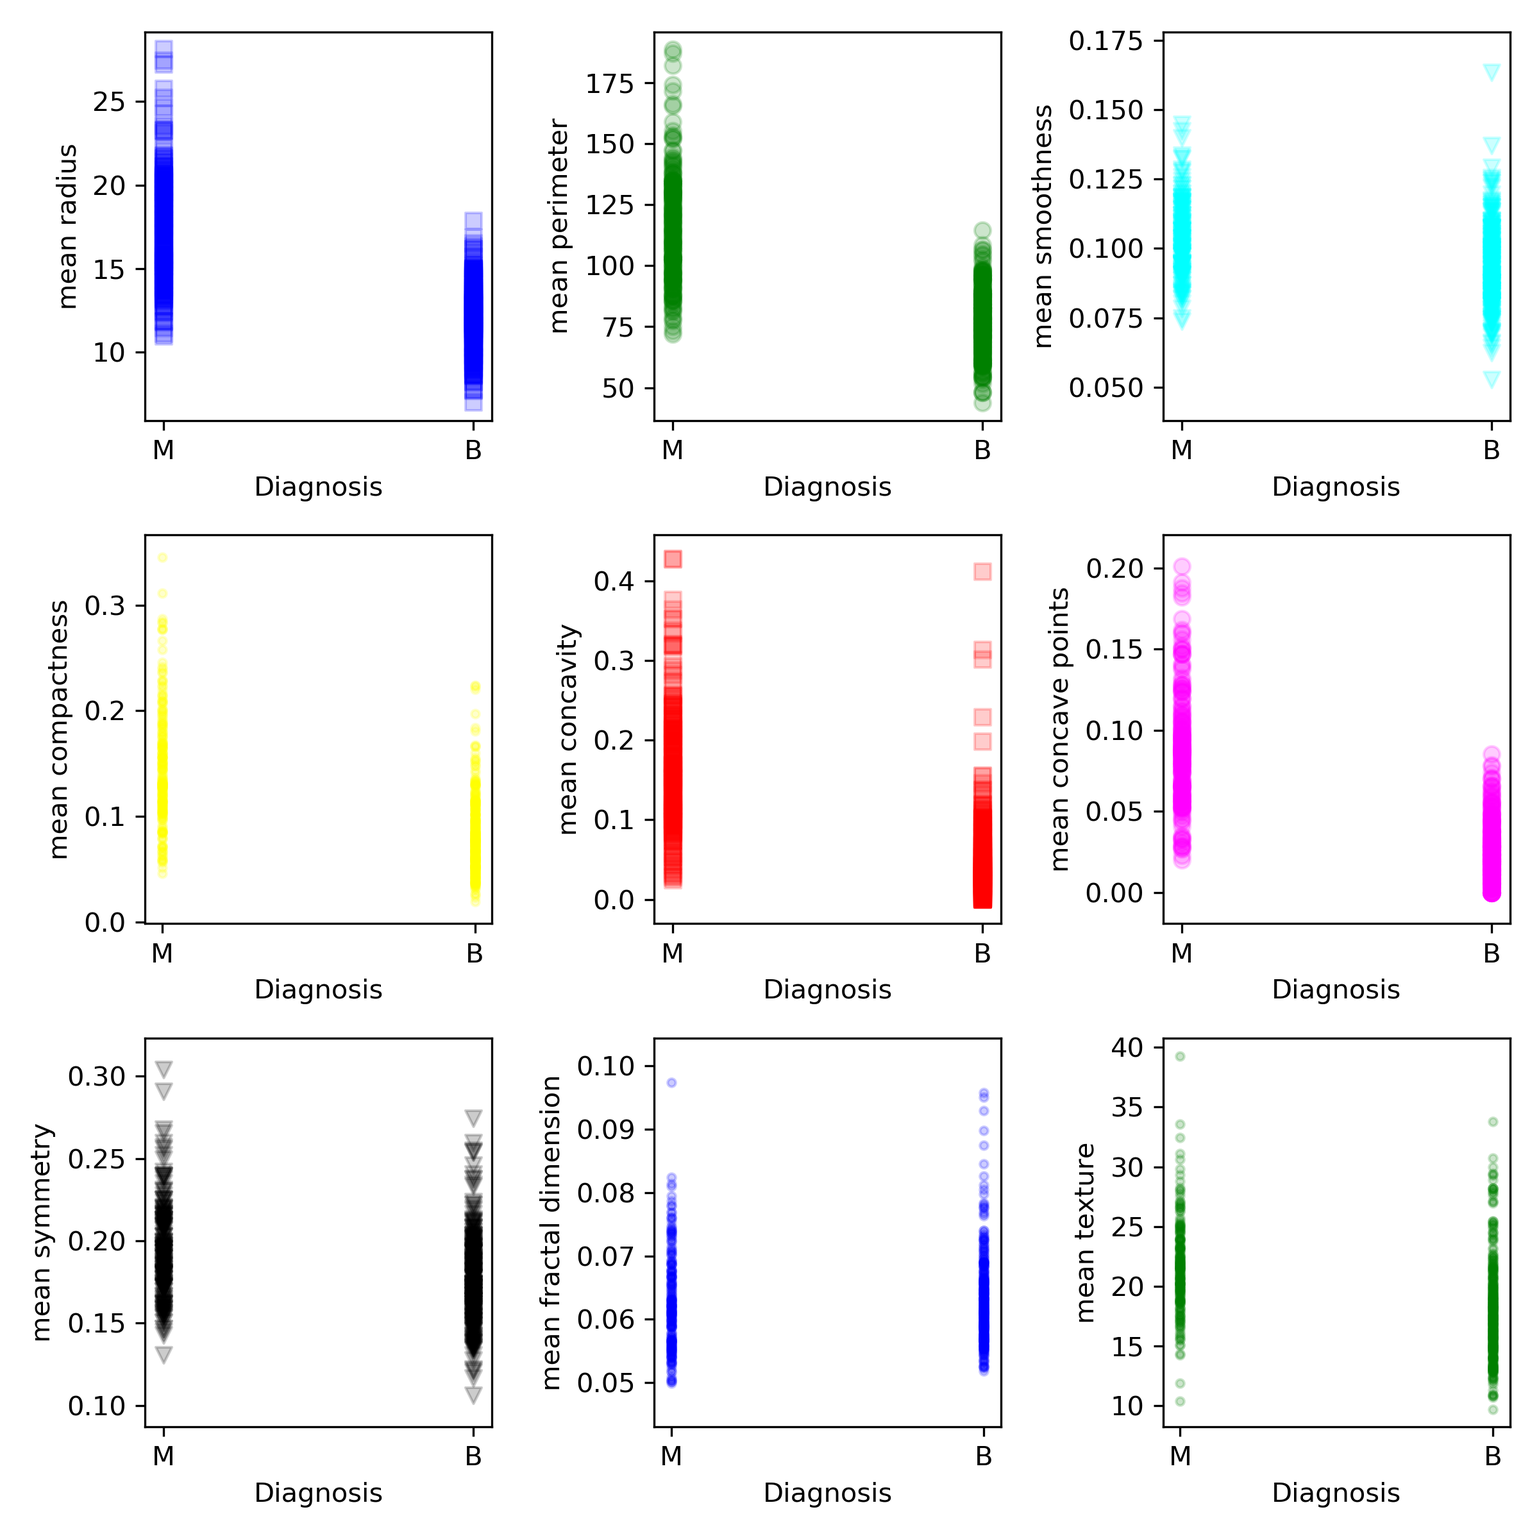
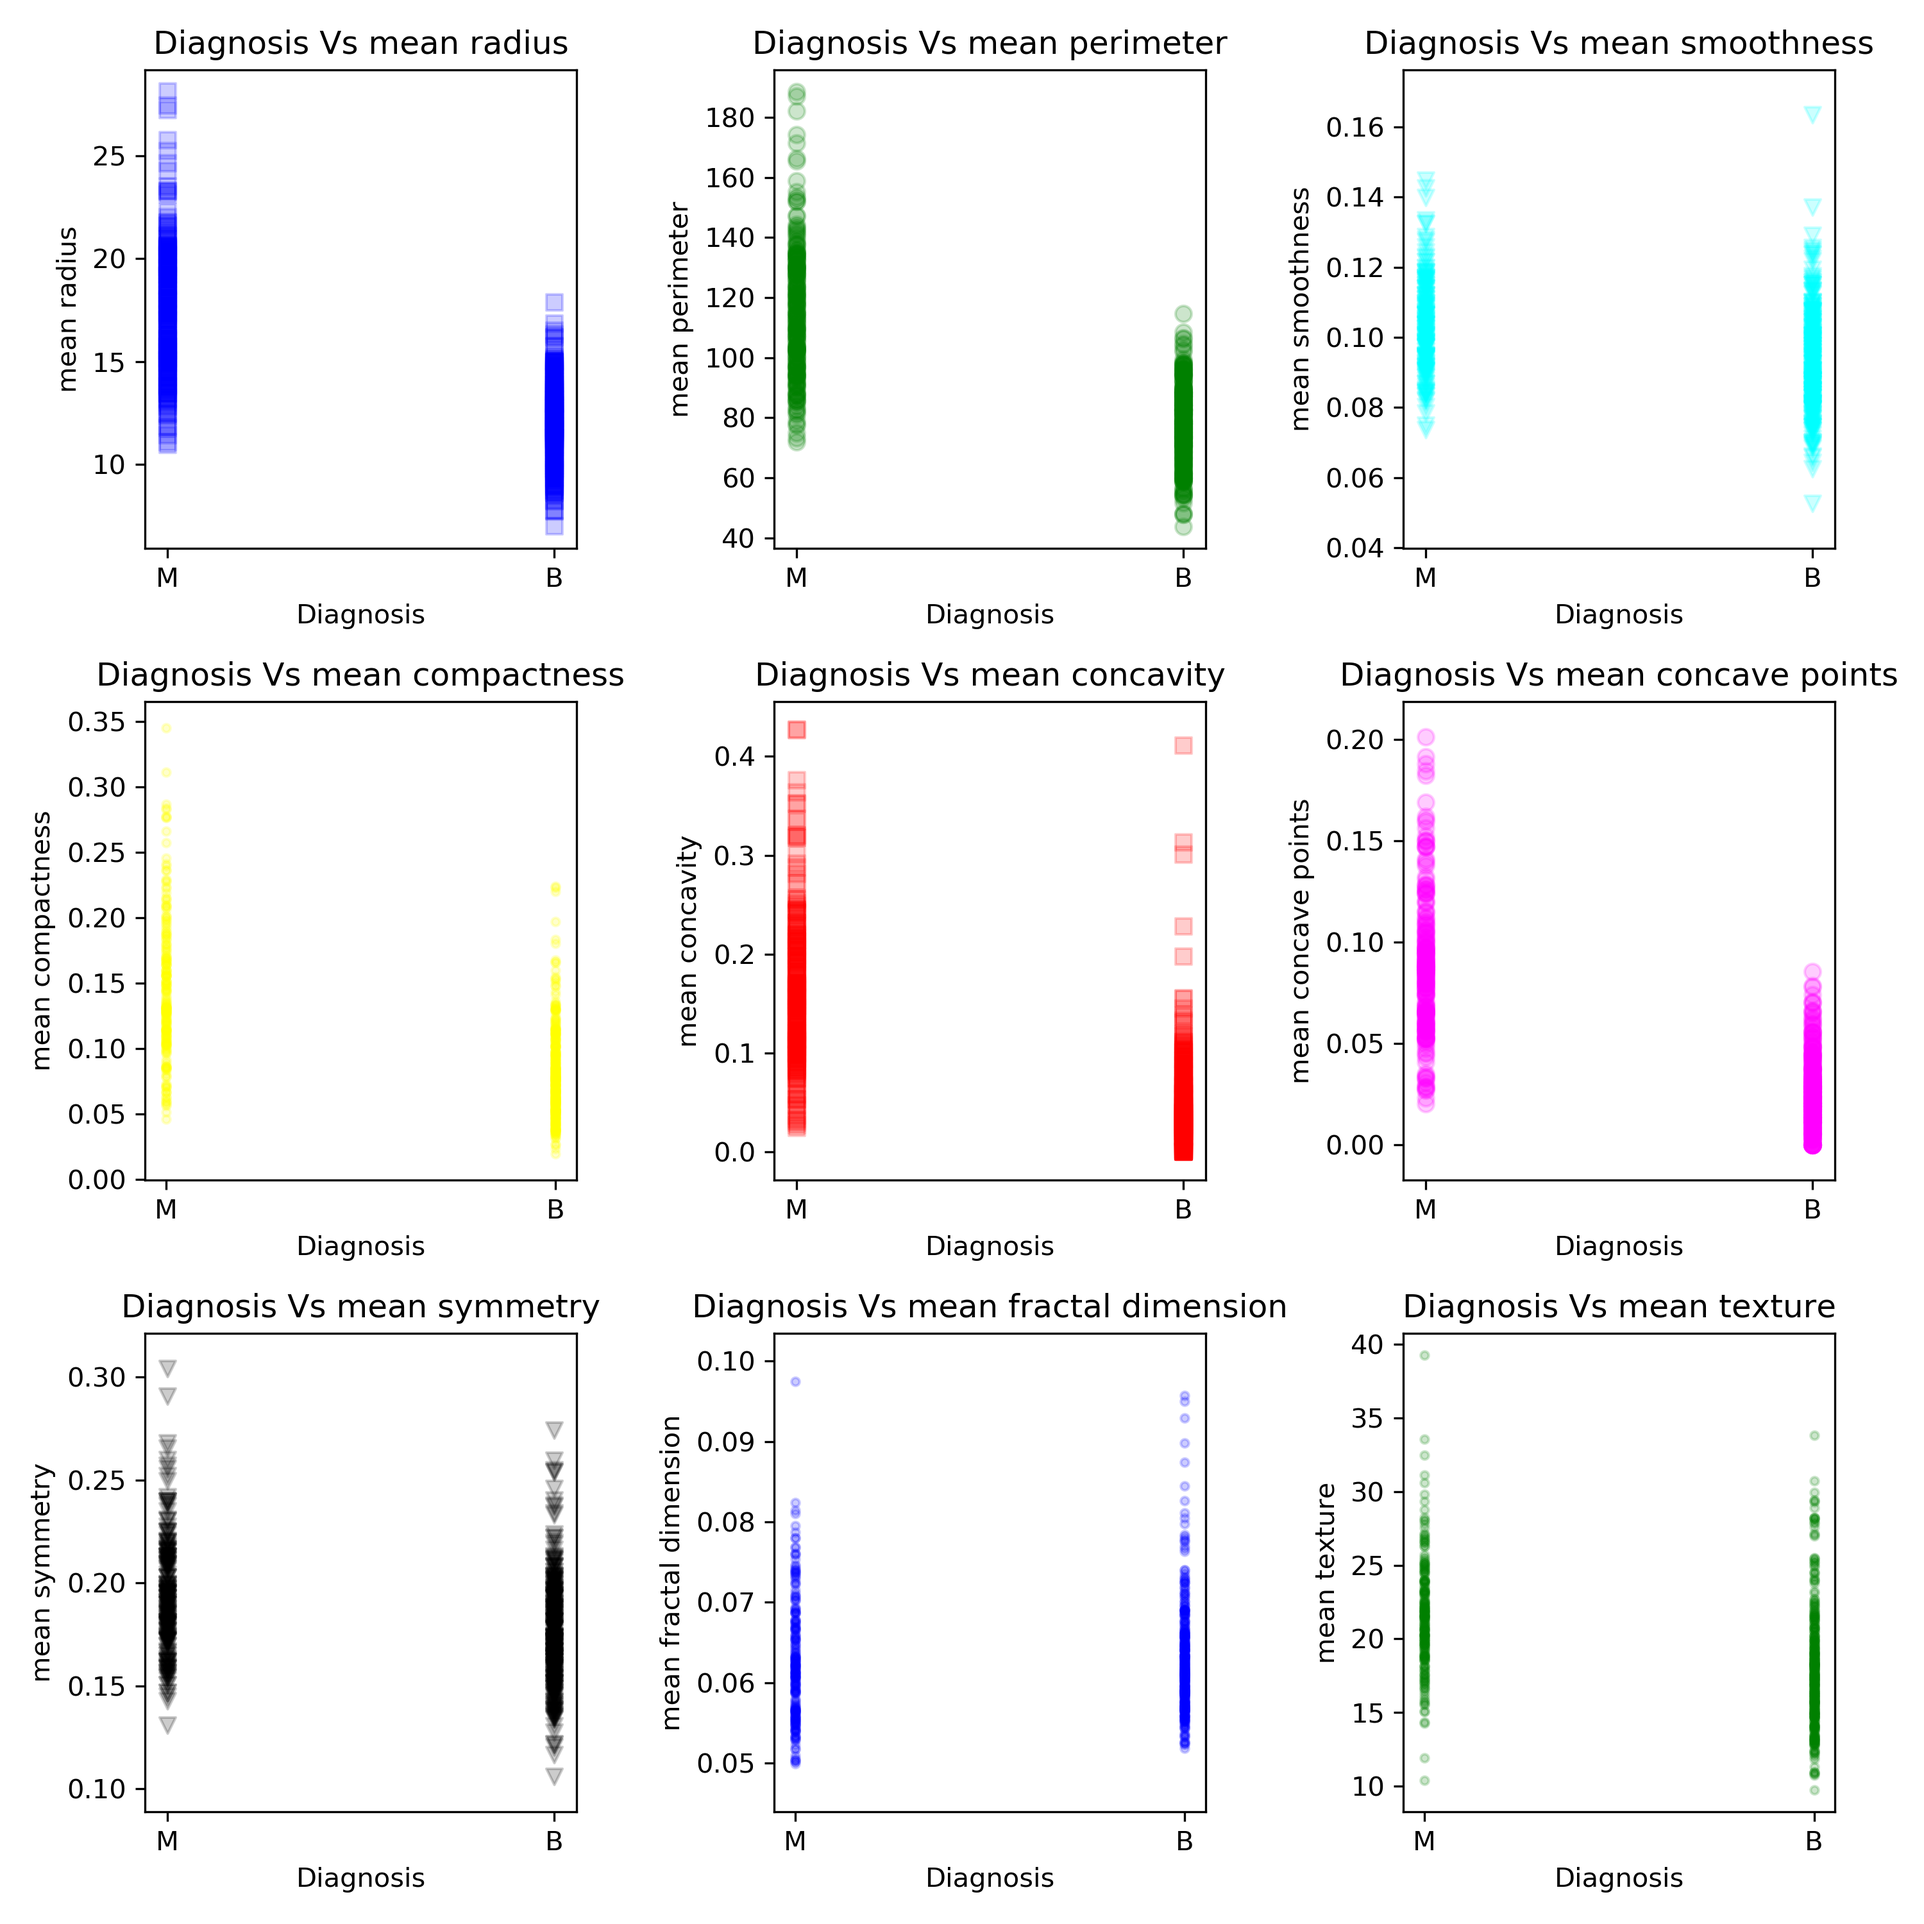
Added title to subplot

diff --git a/Source/cancer_prediction.py b/Source/cancer_prediction.py
@@ -24,7 +24,7 @@ def graph():
                   'worst smoothness', 'worst compactness', 'worst concavity',
                   'worst concave points', 'worst symmetry', 'worst fractal dimension']
 
-    fig, axes = plt.subplots(3, 3, figsize=(8, 8))
+    fig, axes = plt.subplots(3, 3, figsize=(10, 10))
 
     axes[0][0].scatter(df['Diagnosis'], df['mean radius'], alpha='0.2', marker=",", c='blue')
     axes[0][1].scatter(df['Diagnosis'], df['mean perimeter'], alpha='0.2', marker="o", c='green')
@@ -55,6 +55,16 @@ def graph():
     axes[2][0].set_ylabel('mean symmetry')
     axes[2][1].set_ylabel('mean fractal dimension')
     axes[2][2].set_ylabel('mean texture')
+
+    axes[0][0].set_title('Diagnosis Vs mean radius')
+    axes[0][1].set_title('Diagnosis Vs mean perimeter')
+    axes[0][2].set_title('Diagnosis Vs mean smoothness')
+    axes[1][0].set_title('Diagnosis Vs mean compactness')
+    axes[1][1].set_title('Diagnosis Vs mean concavity')
+    axes[1][2].set_title('Diagnosis Vs mean concave points')
+    axes[2][0].set_title('Diagnosis Vs mean symmetry')
+    axes[2][1].set_title('Diagnosis Vs mean fractal dimension')
+    axes[2][2].set_title('Diagnosis Vs mean texture')
 
     plt.tight_layout()
     plt.savefig('../plots/Diagnosis.png', dpi=300)
@@ -95,6 +105,7 @@ def main():
     print('Overall f1-score')
     print(f1_score(y_test, predicted_values, average="macro"))
 
+    # Graph for accuracy of the test data
     plt_array = np.arange(0, predicted_values.size)
 
     actual = np.zeros(predicted_values.size)
@@ -104,6 +115,7 @@ def main():
         else:
             actual[x] = 0
 
+    plt.figure(figsize=(5,5))
     plt.plot(plt_array, actual, 'gv')
     plt.xlabel('Number of test iteration')
     plt.ylabel('Correct Predicted value')
